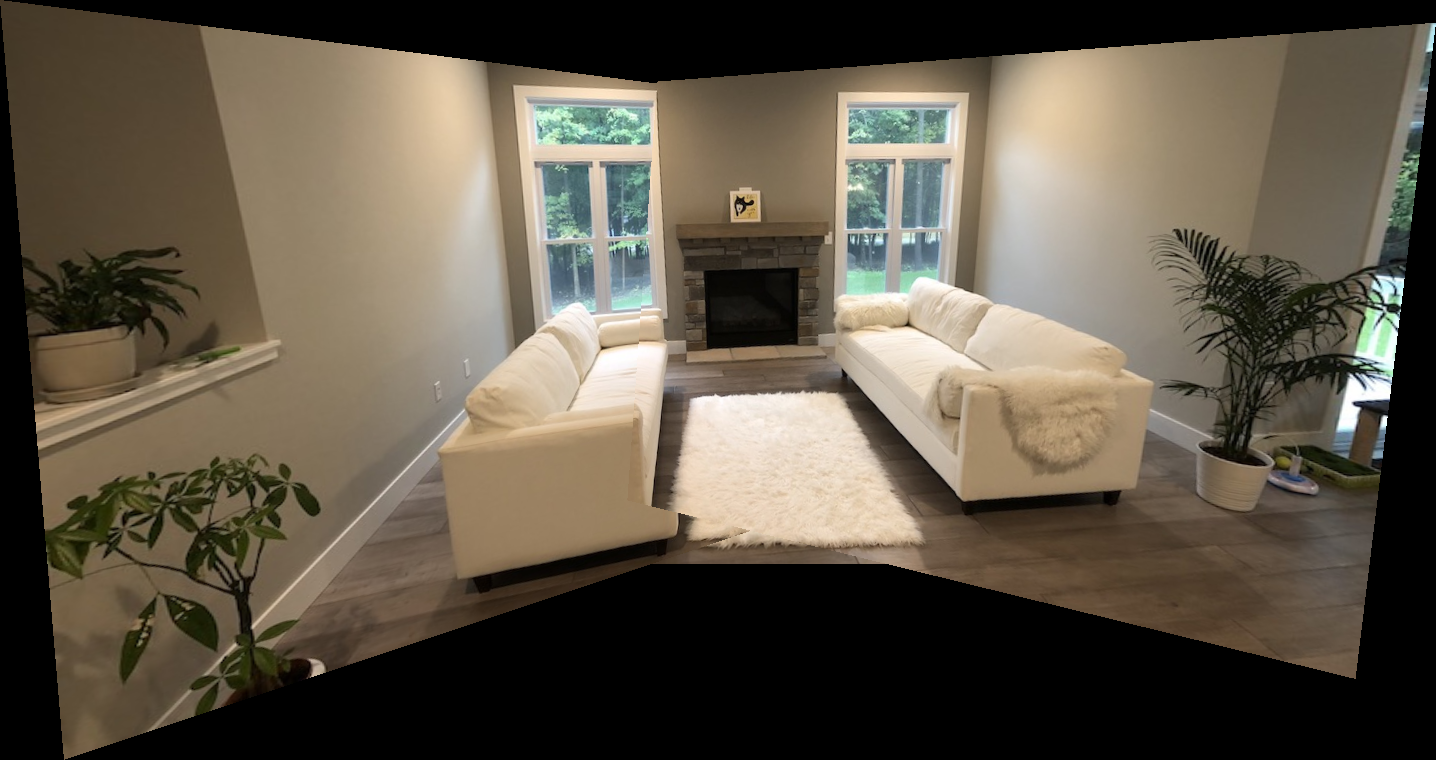
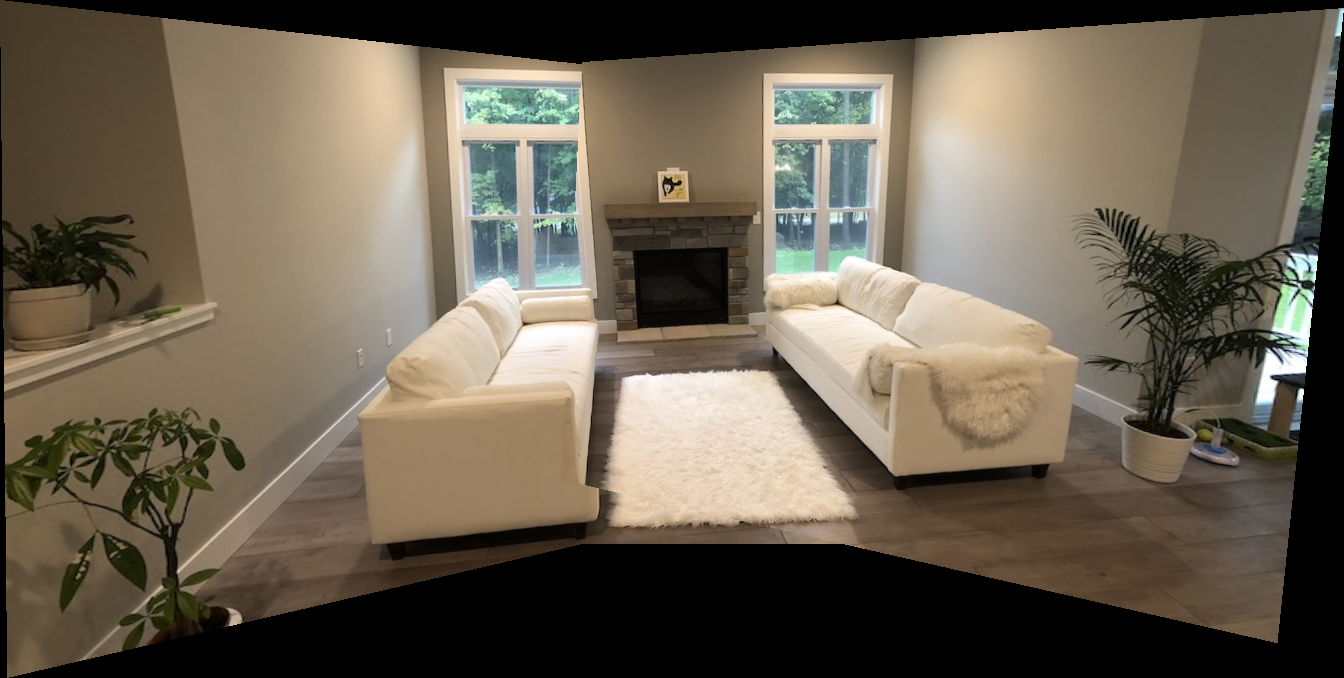
readme updated

diff --git a/src/imageStitching_3images_reordered.m b/src/imageStitching_3images_reordered.m
@@ -8,7 +8,7 @@ close all
 
 % choose the folder name
 %folder_name = 'nd';
-folder_name = 'room_horizontal';
+folder_name = 'room_vertical';
 
 % Read images you want to stitch
 im_left = imread(sprintf('data/%s/1.jpg', folder_name));

diff --git a/src/imageStitching_3images.m b/src/imageStitching_3images.m
@@ -155,4 +155,4 @@ panorama = step(blender, panorama, warped_im_right, mask_right);
 % And show the effects:
 figure
 imshow(panorama)
-imwrite(panorama,'output/panorama_3images.png')
+imwrite(panorama, 'output/panorama_3images.png')

diff --git a/README.md b/README.md
@@ -1,0 +1,72 @@
+# CSE 398/498. Assignment 4
+#### Student Name: Alibek Kaliyev
+#### Email: alk224@lehigh.edu
+
+
+## Usage
+For the code to work, you need to have MATLAB installed on your computer. Use MATLAB software to run all of the scripts.
+
+
+### Task 1
+
+1. Open the file named ```imageStitching_2images.m``` in ```/src``` folder using MATLAB. Run the script. It will display the result of the image stitching. The result will be saved in ```/output``` folder with the name ```panorama_2images.png```.
+2. Open the file named ```inverseWarpingInteractive.m``` in ```/src``` folder using MATLAB. Run the script.
+3. Choose four points on the image that was displayed that will indicate boundaries of the resulting image. After that double click on the image, and the result of the inverse image warping will be displayed. The result will be saved in ```/output``` folder with the name ```panorama_2images_cropped_inverse_warping.png```.
+
+Here is the result of the image stitching for 2 images:
+
+![alt text](output/panorama_2images.png)
+
+Here is the result of the inverse image warping:
+
+![alt text](output/panorama_2images_cropped_inverse_warping.png)
+
+### Task 2
+
+1. Open the file named ```imageStitching_3images.m``` in ```/src``` folder using MATLAB.
+2. You can also change the ```folder_name``` in the beginning of the script to use your own images. The folder should contain three images with the names ```1.jpg```, ```2.jpg```, and ```3.jpg```.
+3. Run the script. It will display the result of the image stitching. The result will be saved in ```/output``` folder with the name ```panorama_3images.png```.
+
+Here is the result of the image stitching for 3 images:
+
+![alt text](output/panorama_3images.png)
+
+### Task 3
+
+The result of task 2 is not great: the right image is heavily deformed. **What could be the reason for this?** The reason for this is that the right image is not aligned with the left image. In fact, the right image performs an estimation of geometric transformation on the already stitched image between the left and the middle images. The middle image is already misaligned with the left image, so the right image is misaligned even more with the left image. This is why the right image is heavily deformed.
+
+To fix this, we should have a middle image as a reference image (identity matrix). We should align the left image with the middle image, and then align the right image with the middle image. This way, the right image will be aligned with the left image.
+
+Steps to run the code:
+1. Open the file named ```imageStitching_3images_reordered.m``` in ```/src``` folder using MATLAB.
+2. You can also change the ```folder_name``` in the beginning of the script to use your own images. The folder should contain three images with the names ```1.jpg```, ```2.jpg```, and ```3.jpg```.
+3. Run the script. It will display the result of the image stitching. The result will be saved in ```/output``` folder with the name ```panorama_3images_{folder_name}_reordered.png```.
+
+Here is the result of the image stitching for 3 images using different images:
+
+![alt text](output/panorama_3images_nd_reordered.png)
+
+And the inverse image warping:
+
+![alt text](output/panorama_3images_nd_cropped_inverse_warping.png)
+
+Here is the result of the image stitching for 3 images for horizontal room:
+
+![alt text](output/panorama_3images_room_horizontal_reordered.png)
+
+And the inverse image warping:
+
+![alt text](output/panorama_3images_room_horizontal_cropped_inverse_warping.png)
+
+Here is the result of the image stitching for 3 images for vertical room:
+
+![alt text](output/panorama_3images_room_vertical_reordered.png)
+
+And the inverse image warping:
+
+![alt text](output/panorama_3images_room_vertical_cropped_inverse_warping.png)
+
+### Task 4
+
+
+
